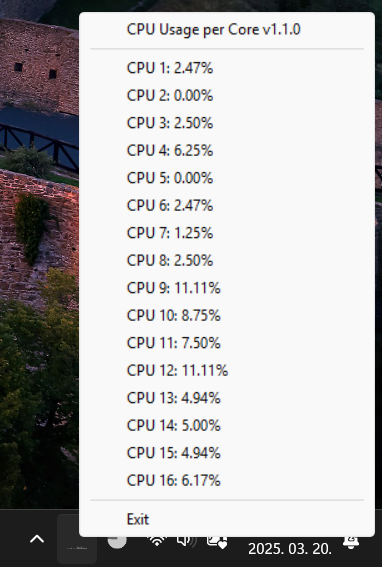
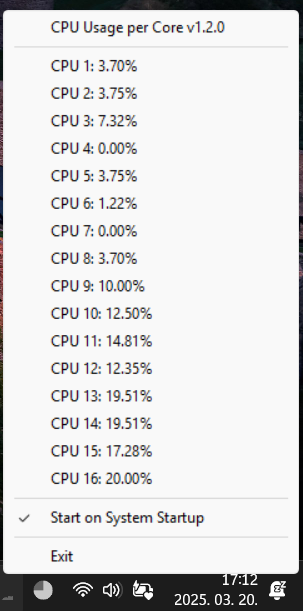
Auto-start menu on Windows

diff --git a/cmd/cpu-monitor/cpu-monitor.go b/cmd/cpu-monitor/cpu-monitor.go
@@ -8,15 +8,20 @@ import (
 	"image/draw"
 	"image/png"
 	"math"
+	"os"
 	"os/exec"
 	"runtime"
 	"time"
 
 	"github.com/lutischan-ferenc/systray"
 	"github.com/shirou/gopsutil/cpu"
+	"golang.org/x/sys/windows/registry"
 )
 
-var backgroundImg *image.RGBA
+var (
+	backgroundImg *image.RGBA
+	mAutoStart    *systray.MenuItem
+)
 
 // main is the entry point of the application.
 // It initializes the system tray with the CPU monitoring functionality.
@@ -30,7 +35,7 @@ func onReady() {
 	if err != nil {
 		fmt.Println("Error fetching CPU usage:", err)
 	}
-	mWeb := systray.AddMenuItem("CPU Usage per Core v1.1.0", "Open the website in browser")
+	mWeb := systray.AddMenuItem("CPU Usage per Core v1.2.0", "Open the website in browser")
 	mWeb.Click(func() {
 		openBrowser("https://github.com/lutischan-ferenc/resource-monitor")
 	})
@@ -41,6 +46,8 @@ func onReady() {
 		menuItem := systray.AddMenuItem(fmt.Sprintf("CPU %d: 0.00%%", i+1), "")
 		cpuMenuItems = append(cpuMenuItems, menuItem)
 	}
+
+	addAutoStartMenuOnWin()
 
 	systray.AddSeparator()
 	mQuit := systray.AddMenuItem("Exit", "Exit the application")
@@ -201,4 +208,105 @@ func openBrowser(url string) {
 	if err != nil {
 		fmt.Println("Failed to open browser:", err)
 	}
+}
+
+const AUTO_START_NAME = "CpuMonitor"
+
+func addAutoStartMenuOnWin() {
+	// Add auto-start menu item for Windows only
+	if runtime.GOOS == "windows" {
+		systray.AddSeparator()
+		mAutoStart = systray.AddMenuItemCheckbox("Start on System Startup", "Auto-start on System Startup", false)
+		// Check the current state of auto-start in the registry
+		if isAutoStartEnabled() {
+			mAutoStart.Check()
+		}
+
+		mAutoStart.Click(func() {
+			if mAutoStart.Checked() {
+				// Disable auto-start
+				if err := setAutoStart(false); err != nil {
+					fmt.Println("Failed to disable auto-start:", err)
+				} else {
+					fmt.Println("Auto-start disabled")
+					mAutoStart.Uncheck()
+				}
+			} else {
+				// Enable auto-start
+				if err := setAutoStart(true); err != nil {
+					fmt.Println("Failed to enable auto-start:", err)
+				} else {
+					fmt.Println("Auto-start enabled")
+					mAutoStart.Check()
+				}
+			}
+		})
+	}
+}
+
+// setAutoStart sets or removes the application from the Windows startup registry.
+func setAutoStart(enable bool) error {
+	if runtime.GOOS != "windows" {
+		return fmt.Errorf("auto-start is only supported on Windows")
+	}
+
+	// Get the path to the current executable
+	exePath, err := os.Executable()
+	if err != nil {
+		return fmt.Errorf("failed to get executable path: %v", err)
+	}
+
+	// Open the registry key for auto-start programs
+	key, err := registry.OpenKey(registry.CURRENT_USER, `Software\Microsoft\Windows\CurrentVersion\Run`, registry.SET_VALUE|registry.QUERY_VALUE)
+	if err != nil {
+		return fmt.Errorf("failed to open registry key: %v", err)
+	}
+	defer key.Close()
+
+	// Set or remove the auto-start entry
+	if enable {
+		if err := key.SetStringValue(AUTO_START_NAME, exePath); err != nil {
+			return fmt.Errorf("failed to set registry value: %v", err)
+		}
+	} else {
+		if err := key.DeleteValue(AUTO_START_NAME); err != nil && err != registry.ErrNotExist {
+			return fmt.Errorf("failed to delete registry value: %v", err)
+		}
+	}
+
+	return nil
+}
+
+// isAutoStartEnabled checks if the application is set to auto-start in the Windows registry.
+func isAutoStartEnabled() bool {
+	if runtime.GOOS != "windows" {
+		return false
+	}
+
+	// Get the path to the current executable
+	exePath, err := os.Executable()
+	if err != nil {
+		fmt.Println("Failed to get executable path:", err)
+		return false
+	}
+
+	// Open the registry key for auto-start programs
+	key, err := registry.OpenKey(registry.CURRENT_USER, `Software\Microsoft\Windows\CurrentVersion\Run`, registry.QUERY_VALUE)
+	if err != nil {
+		fmt.Println("Failed to open registry key:", err)
+		return false
+	}
+	defer key.Close()
+
+	// Check if the registry value exists and matches the current executable path
+	value, _, err := key.GetStringValue(AUTO_START_NAME)
+	if err != nil {
+		if err == registry.ErrNotExist {
+			return false
+		}
+		fmt.Println("Failed to read registry value:", err)
+		return false
+	}
+
+	return value == exePath
 }

diff --git a/cmd/mem-monitor/mem-monitor.go b/cmd/mem-monitor/mem-monitor.go
@@ -8,17 +8,20 @@ import (
 	"image/draw"
 	"image/png"
 	"math"
+	"os"
 	"os/exec"
 	"runtime"
 	"time"
 
 	"github.com/lutischan-ferenc/systray"
 	"github.com/shirou/gopsutil/mem"
+	"golang.org/x/sys/windows/registry"
 )
 
 var (
 	backgroundImg *image.RGBA
 	lastUsedMB    uint64
+	mAutoStart    *systray.MenuItem
 )
 
 // main is the entry point of the application.
@@ -29,7 +32,7 @@ func main() {
 
 // onReadyMem sets up the system tray interface and starts monitoring memory usage.
 func onReadyMem() {
-	mWeb := systray.AddMenuItem("Mem Monitor v1.1.0", "Open the website in browser")
+	mWeb := systray.AddMenuItem("Mem Monitor v1.2.0", "Open the website in browser")
 	mWeb.Click(func() {
 		openBrowser("https://github.com/lutischan-ferenc/resource-monitor")
 	})
@@ -40,6 +43,8 @@ func onReadyMem() {
 	mFree := systray.AddMenuItem("Free: 0 MB", "")
 	mCached := systray.AddMenuItem("Cached: 0 MB", "")
 	mSwap := systray.AddMenuItem("Swap: 0 MB", "")
+
+	addAutoStartMenuOnWin()
 
 	systray.AddSeparator()
 	mQuit := systray.AddMenuItem("Exit", "Exit the application")
@@ -166,4 +171,105 @@ func openBrowser(url string) {
 	if err != nil {
 		fmt.Println("Failed to open browser:", err)
 	}
+}
+
+const AUTO_START_NAME = "MemMonitor"
+
+func addAutoStartMenuOnWin() {
+	// Add auto-start menu item for Windows only
+	if runtime.GOOS == "windows" {
+		systray.AddSeparator()
+		mAutoStart = systray.AddMenuItemCheckbox("Start on System Startup", "Auto-start on System Startup", false)
+		// Check the current state of auto-start in the registry
+		if isAutoStartEnabled() {
+			mAutoStart.Check()
+		}
+
+		mAutoStart.Click(func() {
+			if mAutoStart.Checked() {
+				// Disable auto-start
+				if err := setAutoStart(false); err != nil {
+					fmt.Println("Failed to disable auto-start:", err)
+				} else {
+					fmt.Println("Auto-start disabled")
+					mAutoStart.Uncheck()
+				}
+			} else {
+				// Enable auto-start
+				if err := setAutoStart(true); err != nil {
+					fmt.Println("Failed to enable auto-start:", err)
+				} else {
+					fmt.Println("Auto-start enabled")
+					mAutoStart.Check()
+				}
+			}
+		})
+	}
+}
+
+// setAutoStart sets or removes the application from the Windows startup registry.
+func setAutoStart(enable bool) error {
+	if runtime.GOOS != "windows" {
+		return fmt.Errorf("auto-start is only supported on Windows")
+	}
+
+	// Get the path to the current executable
+	exePath, err := os.Executable()
+	if err != nil {
+		return fmt.Errorf("failed to get executable path: %v", err)
+	}
+
+	// Open the registry key for auto-start programs
+	key, err := registry.OpenKey(registry.CURRENT_USER, `Software\Microsoft\Windows\CurrentVersion\Run`, registry.SET_VALUE|registry.QUERY_VALUE)
+	if err != nil {
+		return fmt.Errorf("failed to open registry key: %v", err)
+	}
+	defer key.Close()
+
+	// Set or remove the auto-start entry
+	if enable {
+		if err := key.SetStringValue(AUTO_START_NAME, exePath); err != nil {
+			return fmt.Errorf("failed to set registry value: %v", err)
+		}
+	} else {
+		if err := key.DeleteValue(AUTO_START_NAME); err != nil && err != registry.ErrNotExist {
+			return fmt.Errorf("failed to delete registry value: %v", err)
+		}
+	}
+
+	return nil
+}
+
+// isAutoStartEnabled checks if the application is set to auto-start in the Windows registry.
+func isAutoStartEnabled() bool {
+	if runtime.GOOS != "windows" {
+		return false
+	}
+
+	// Get the path to the current executable
+	exePath, err := os.Executable()
+	if err != nil {
+		fmt.Println("Failed to get executable path:", err)
+		return false
+	}
+
+	// Open the registry key for auto-start programs
+	key, err := registry.OpenKey(registry.CURRENT_USER, `Software\Microsoft\Windows\CurrentVersion\Run`, registry.QUERY_VALUE)
+	if err != nil {
+		fmt.Println("Failed to open registry key:", err)
+		return false
+	}
+	defer key.Close()
+
+	// Check if the registry value exists and matches the current executable path
+	value, _, err := key.GetStringValue(AUTO_START_NAME)
+	if err != nil {
+		if err == registry.ErrNotExist {
+			return false
+		}
+		fmt.Println("Failed to read registry value:", err)
+		return false
+	}
+
+	return value == exePath
 }
